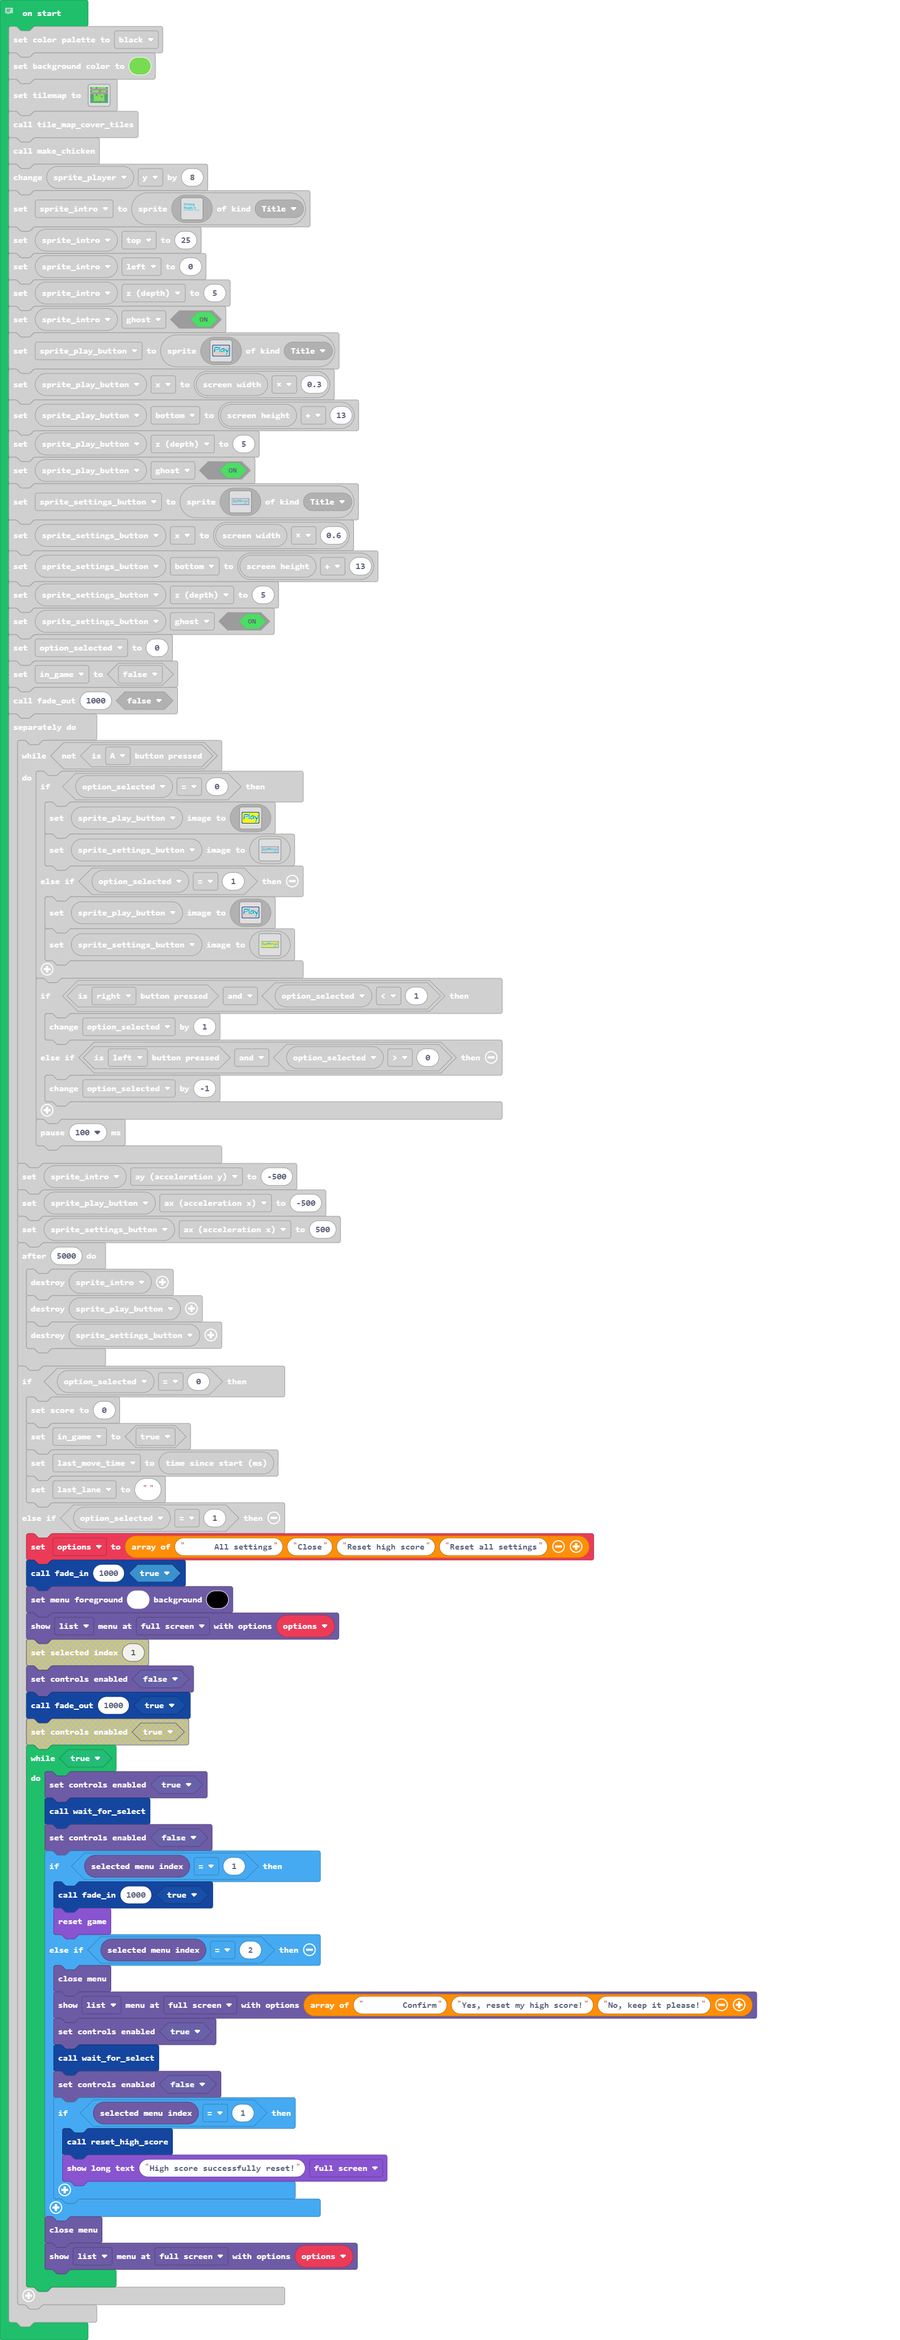
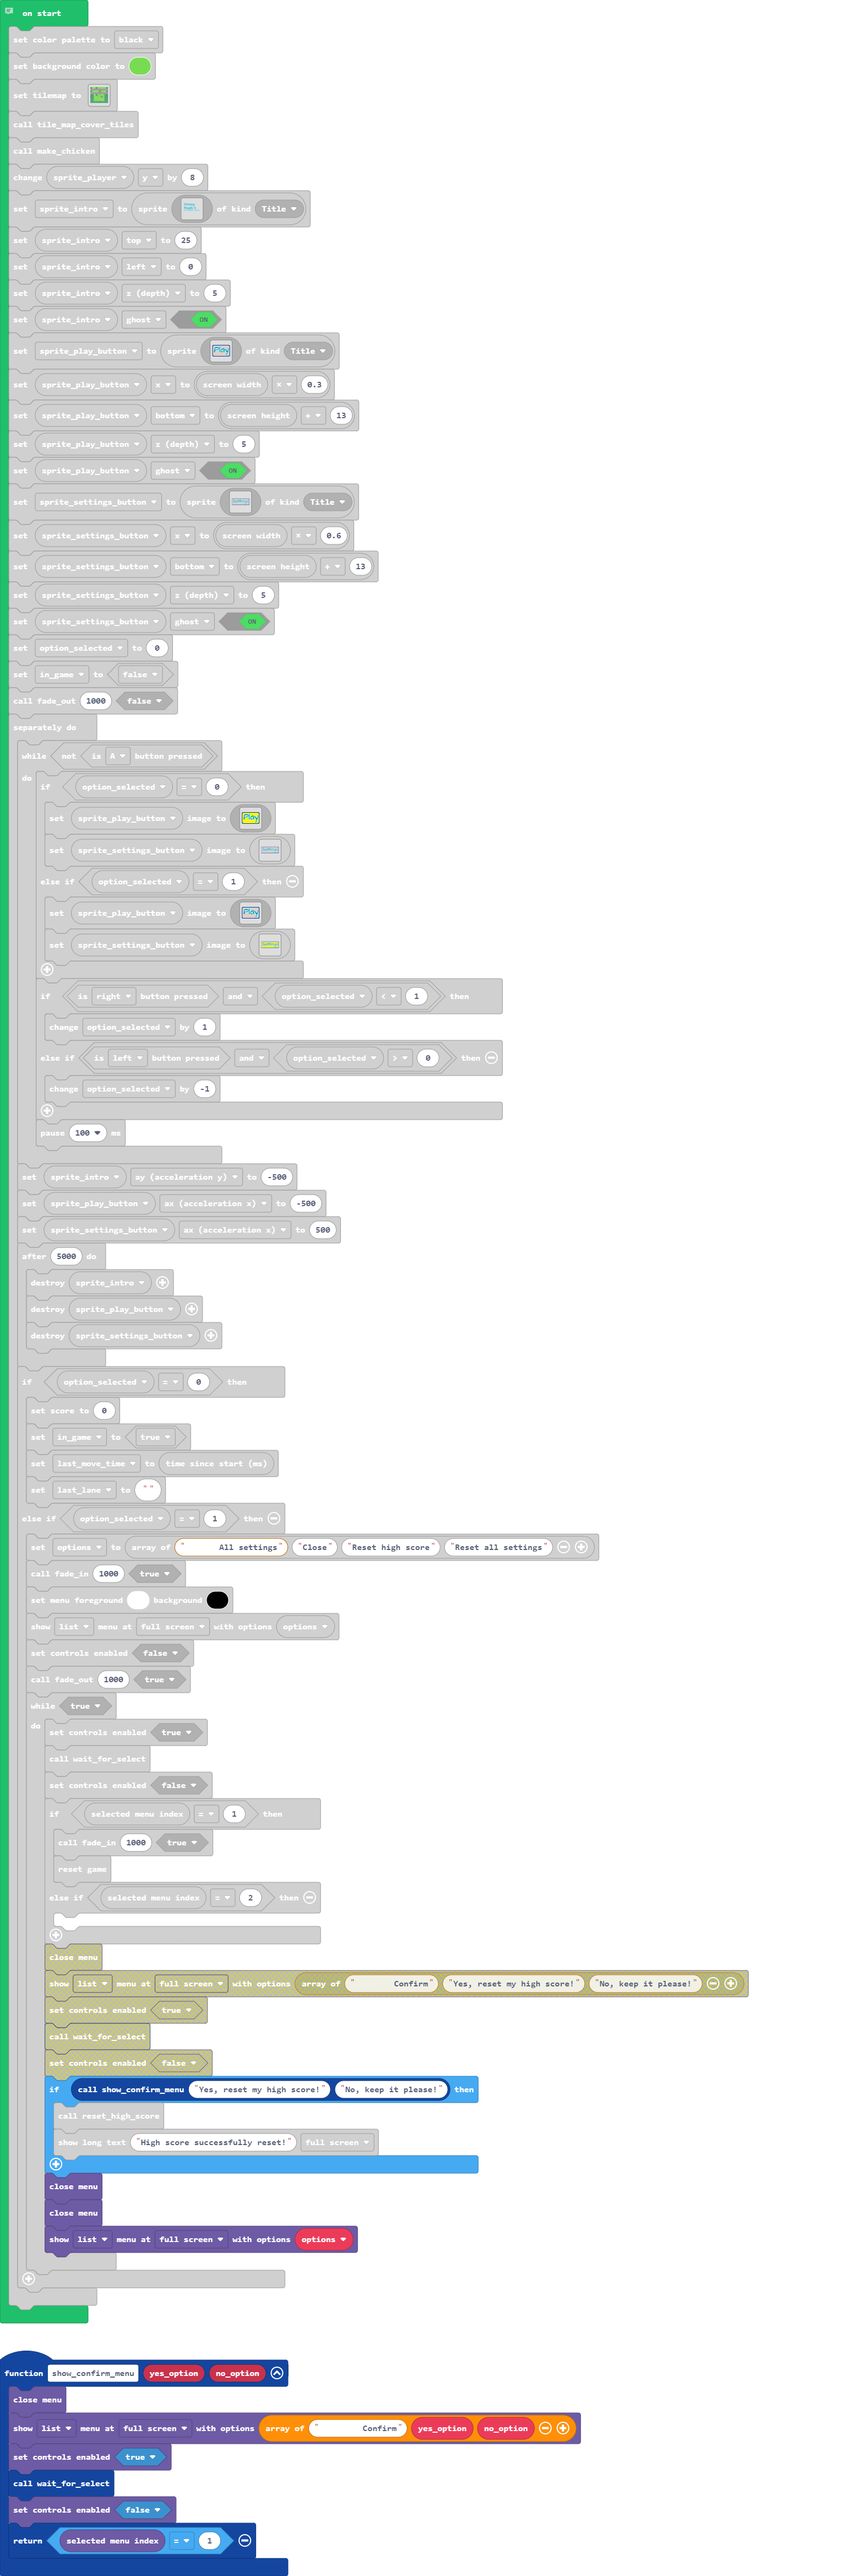
Put show confirm menu in function

Changed region(s): [[0.0, 0.0, 0.8883, 1.0]]

diff --git a/main.ts b/main.ts
@@ -309,6 +309,14 @@ function make_waterway_lanes () {
         tiles.setTileAt(tiles.getTileLocation(tiles.tilemapColumns() - 1, 0), assets.tile`water_left`)
     }
 }
+function show_confirm_menu (yes_option: string, no_option: string) {
+    blockMenu.closeMenu()
+    blockMenu.showMenu(["         Confirm", yes_option, no_option], MenuStyle.List, MenuLocation.FullScreen)
+    blockMenu.setControlsEnabled(true)
+    wait_for_select()
+    blockMenu.setControlsEnabled(false)
+    return blockMenu.selectedMenuIndex() == 1
+}
 function crop_image (image2: Image, from_x: number, from_y: number, to_x: number, to_y: number) {
     cropped_image = image.create(to_x - from_x, to_y - from_y)
     spriteutils.drawTransparentImage(image2, cropped_image, from_x * -1, from_y * -1)
@@ -532,7 +540,7 @@ timer.background(function () {
         last_move_time = game.runtime()
         last_lane = ""
     } else if (option_selected == 1) {
-        options = ["      All settings", "Close", "Reset high score", "Reset all settings"]
+        options = ["       All settings", "Close", "Reset high score", "Reset all settings"]
         fade_in(1000, true)
         blockMenu.setColors(1, 15)
         blockMenu.showMenu(options, MenuStyle.List, MenuLocation.FullScreen)
@@ -546,15 +554,11 @@ timer.background(function () {
                 fade_in(1000, true)
                 game.reset()
             } else if (blockMenu.selectedMenuIndex() == 2) {
-                blockMenu.closeMenu()
-                blockMenu.showMenu(["        Confirm", "Yes, reset my high score!", "No, keep it please!"], MenuStyle.List, MenuLocation.FullScreen)
-                blockMenu.setControlsEnabled(true)
-                wait_for_select()
-                blockMenu.setControlsEnabled(false)
-                if (blockMenu.selectedMenuIndex() == 1) {
+                if (show_confirm_menu("Yes, reset my high score!", "No, keep it please!")) {
                     reset_high_score()
                     game.showLongText("High score successfully reset!", DialogLayout.Full)
                 }
+                blockMenu.closeMenu()
             }
             blockMenu.closeMenu()
             blockMenu.showMenu(options, MenuStyle.List, MenuLocation.FullScreen)
